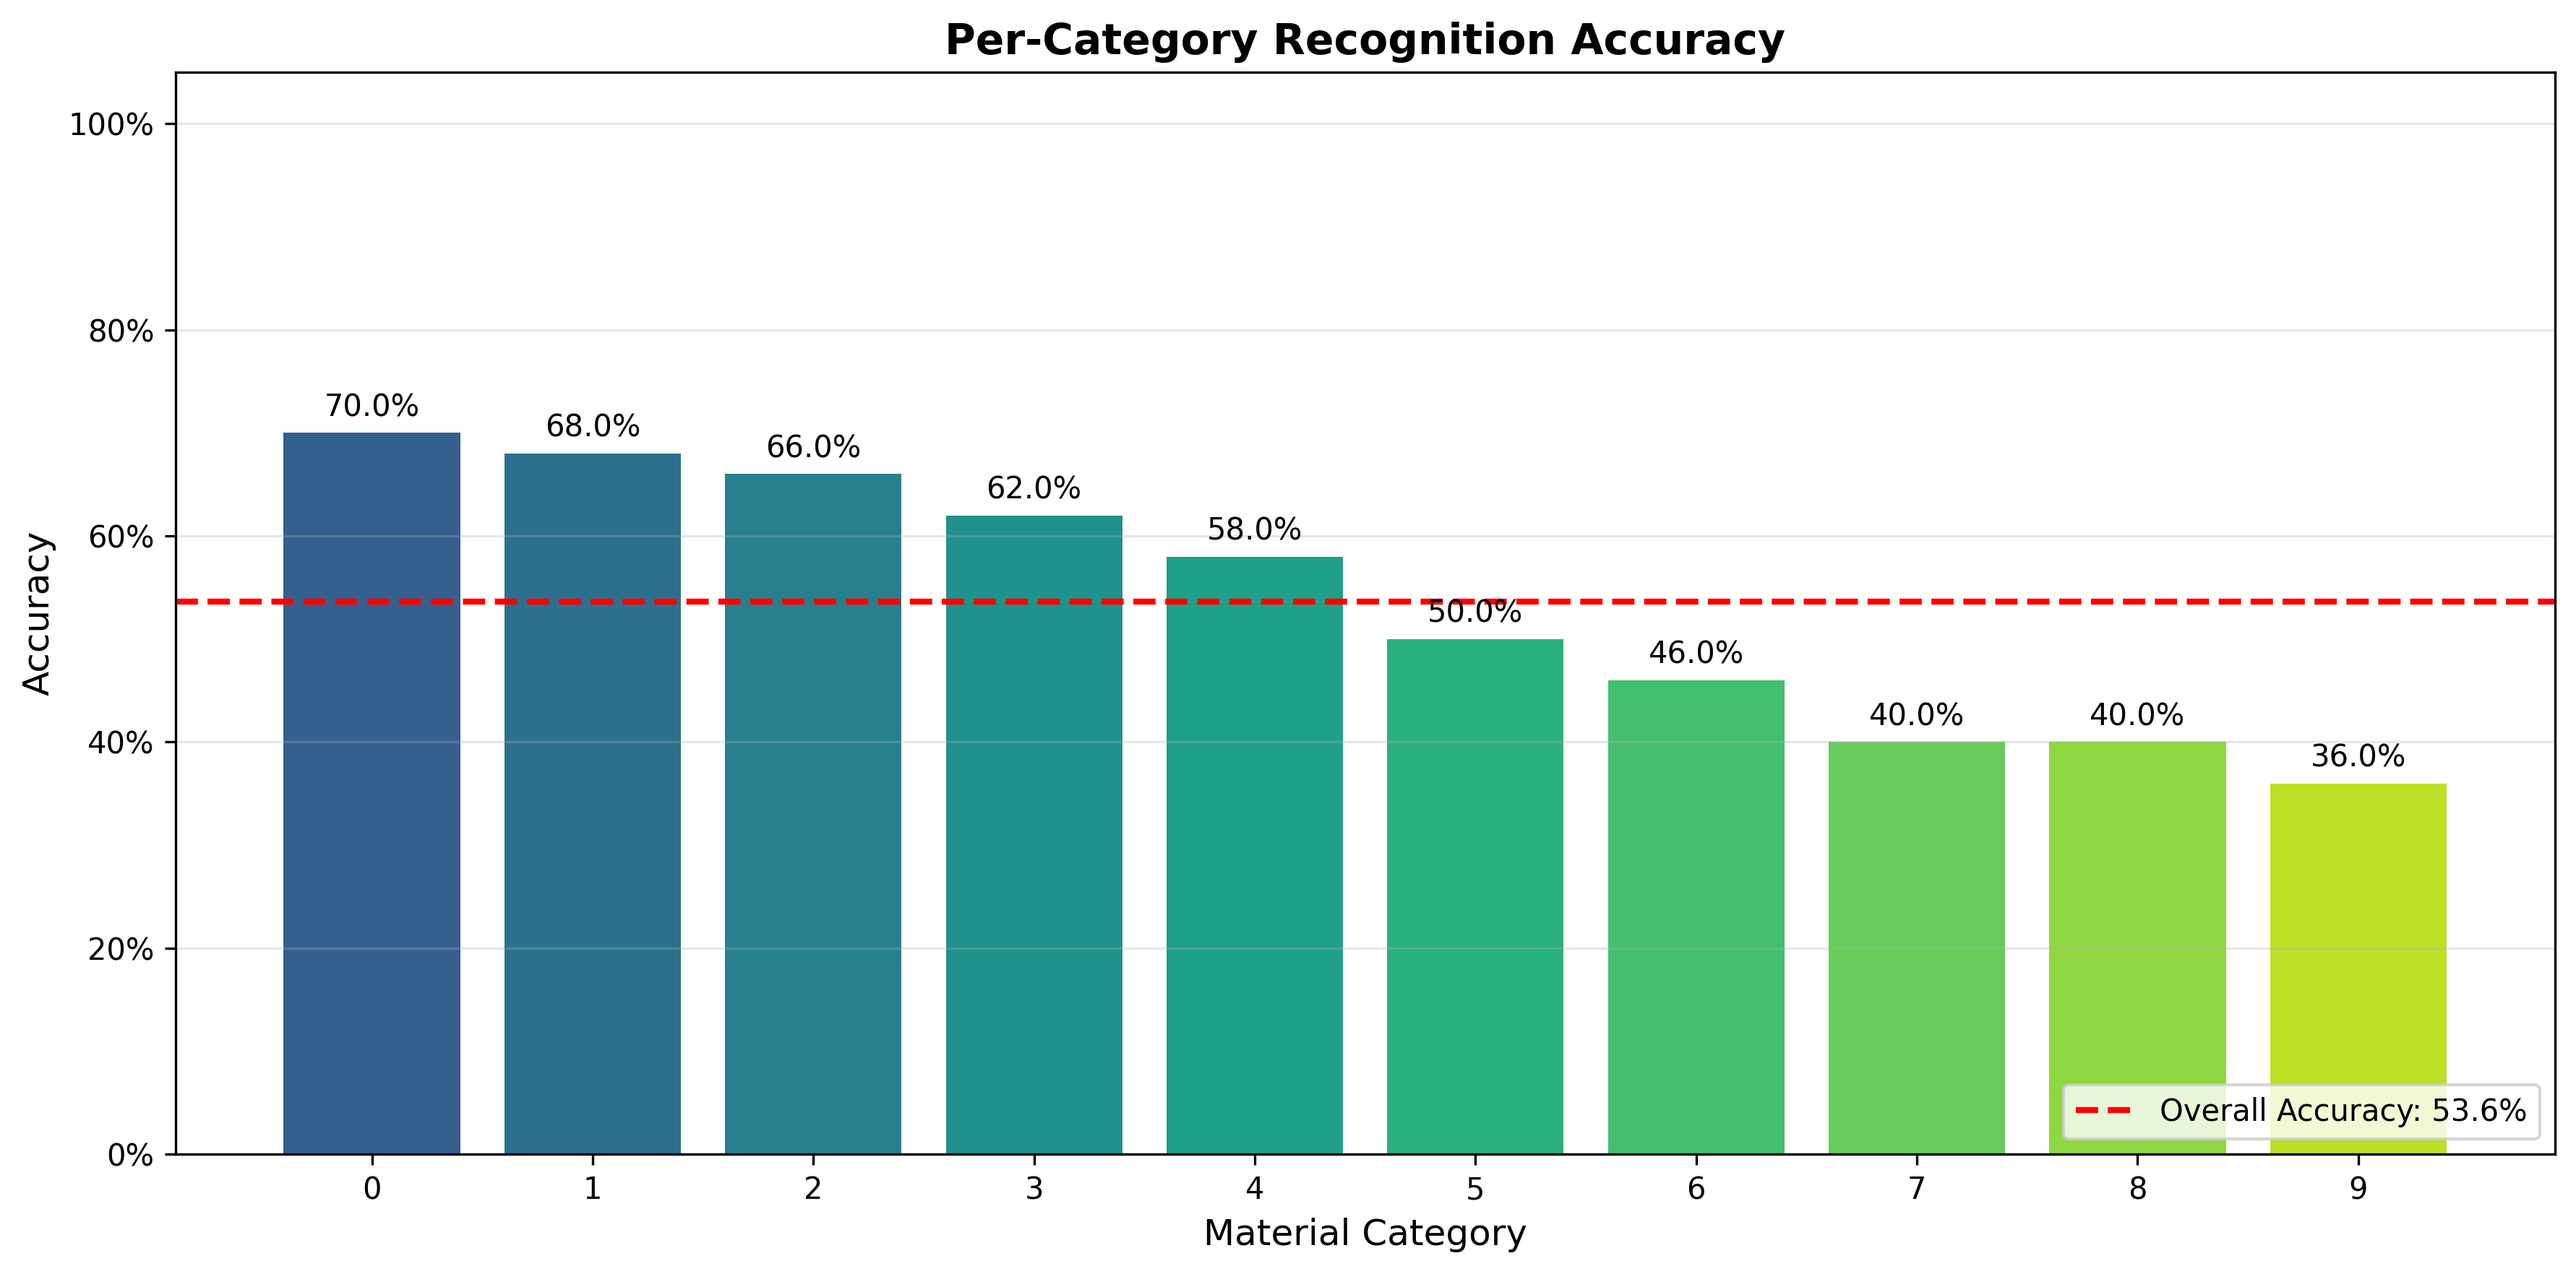
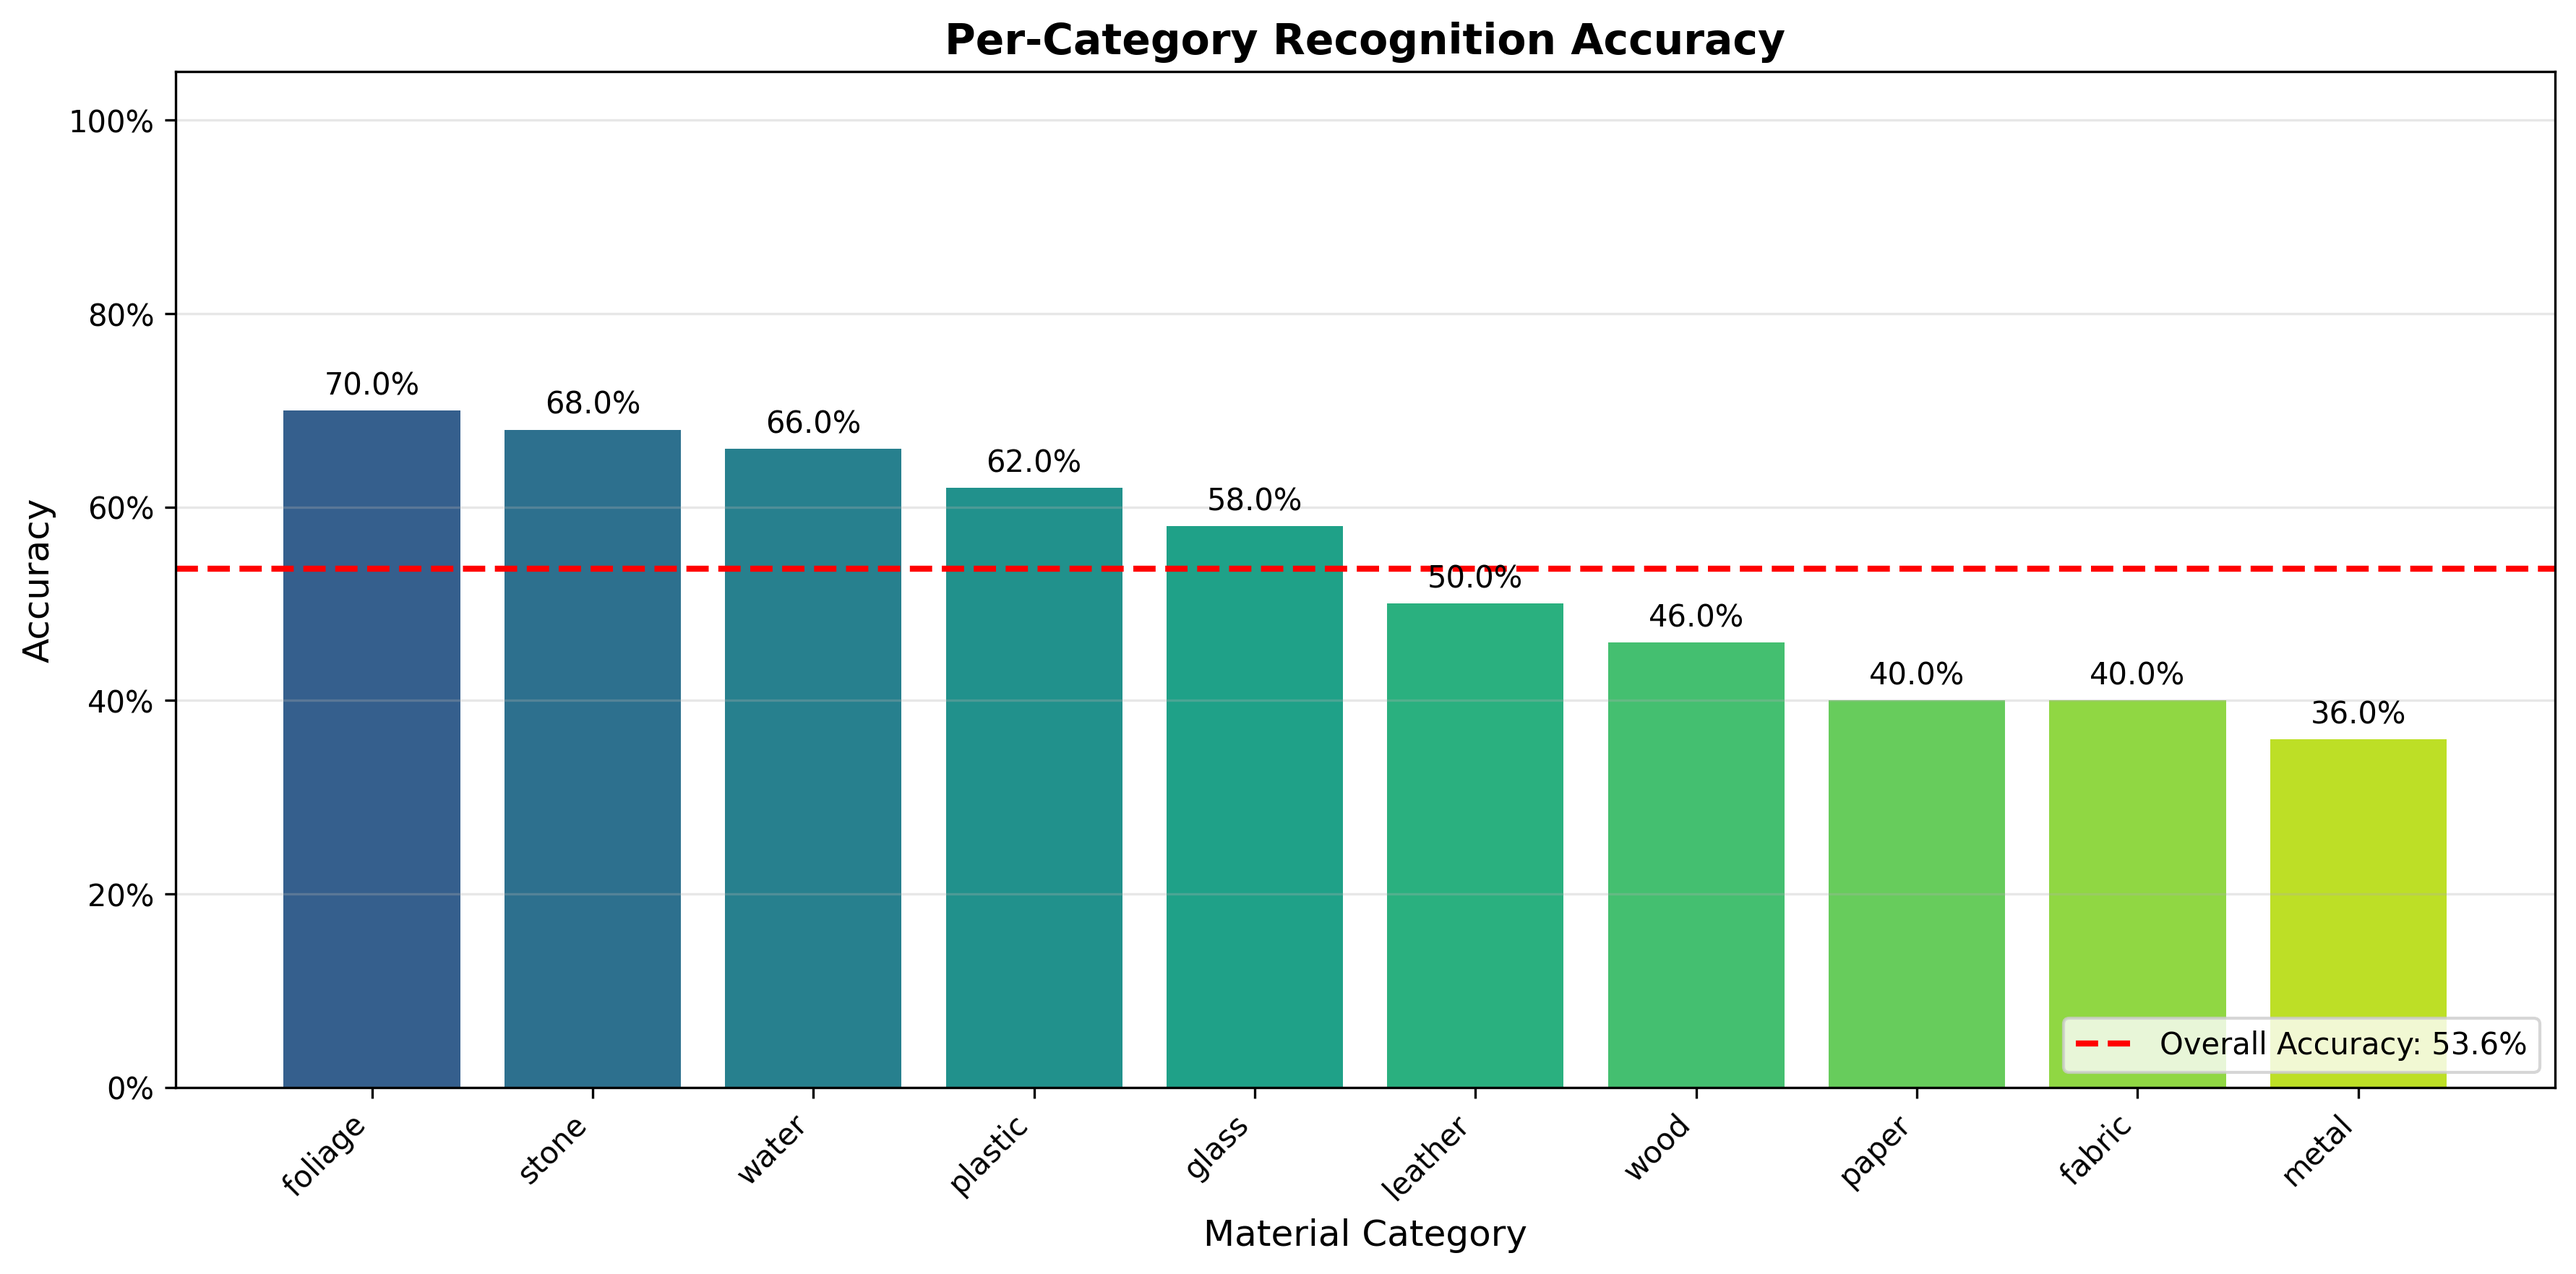
update per category accuracy x axis

diff --git a/plotting/accuracy_plots.py b/plotting/accuracy_plots.py
@@ -145,7 +145,7 @@ def plot_per_category_accuracy(
 
     viridis = plt.cm.get_cmap("viridis")
     bars = ax.bar(
-        range(len(categories)),
+        sorted_categories,
         sorted_accuracies,
         color=viridis(np.linspace(0.3, 0.9, len(categories))),
     )
@@ -174,12 +174,12 @@ def plot_per_category_accuracy(
     ax.set_xlabel("Material Category", fontsize=12)
     ax.set_ylabel("Accuracy", fontsize=12)
     ax.set_title("Per-Category Recognition Accuracy", fontsize=14, fontweight="bold")
-    ax.set_xticks(range(len(categories)))
     ax.set_ylim(0, 1.05)
+    
+    plt.setp(ax.get_xticklabels(), rotation=45, ha="right")
     
     ax.yaxis.set_major_formatter(FuncFormatter(lambda y, _: f"{y:.0%}"))
     
-    ax.legend(loc="lower right")
     ax.legend(loc="lower right")
     ax.grid(axis="y", alpha=0.3)
 
